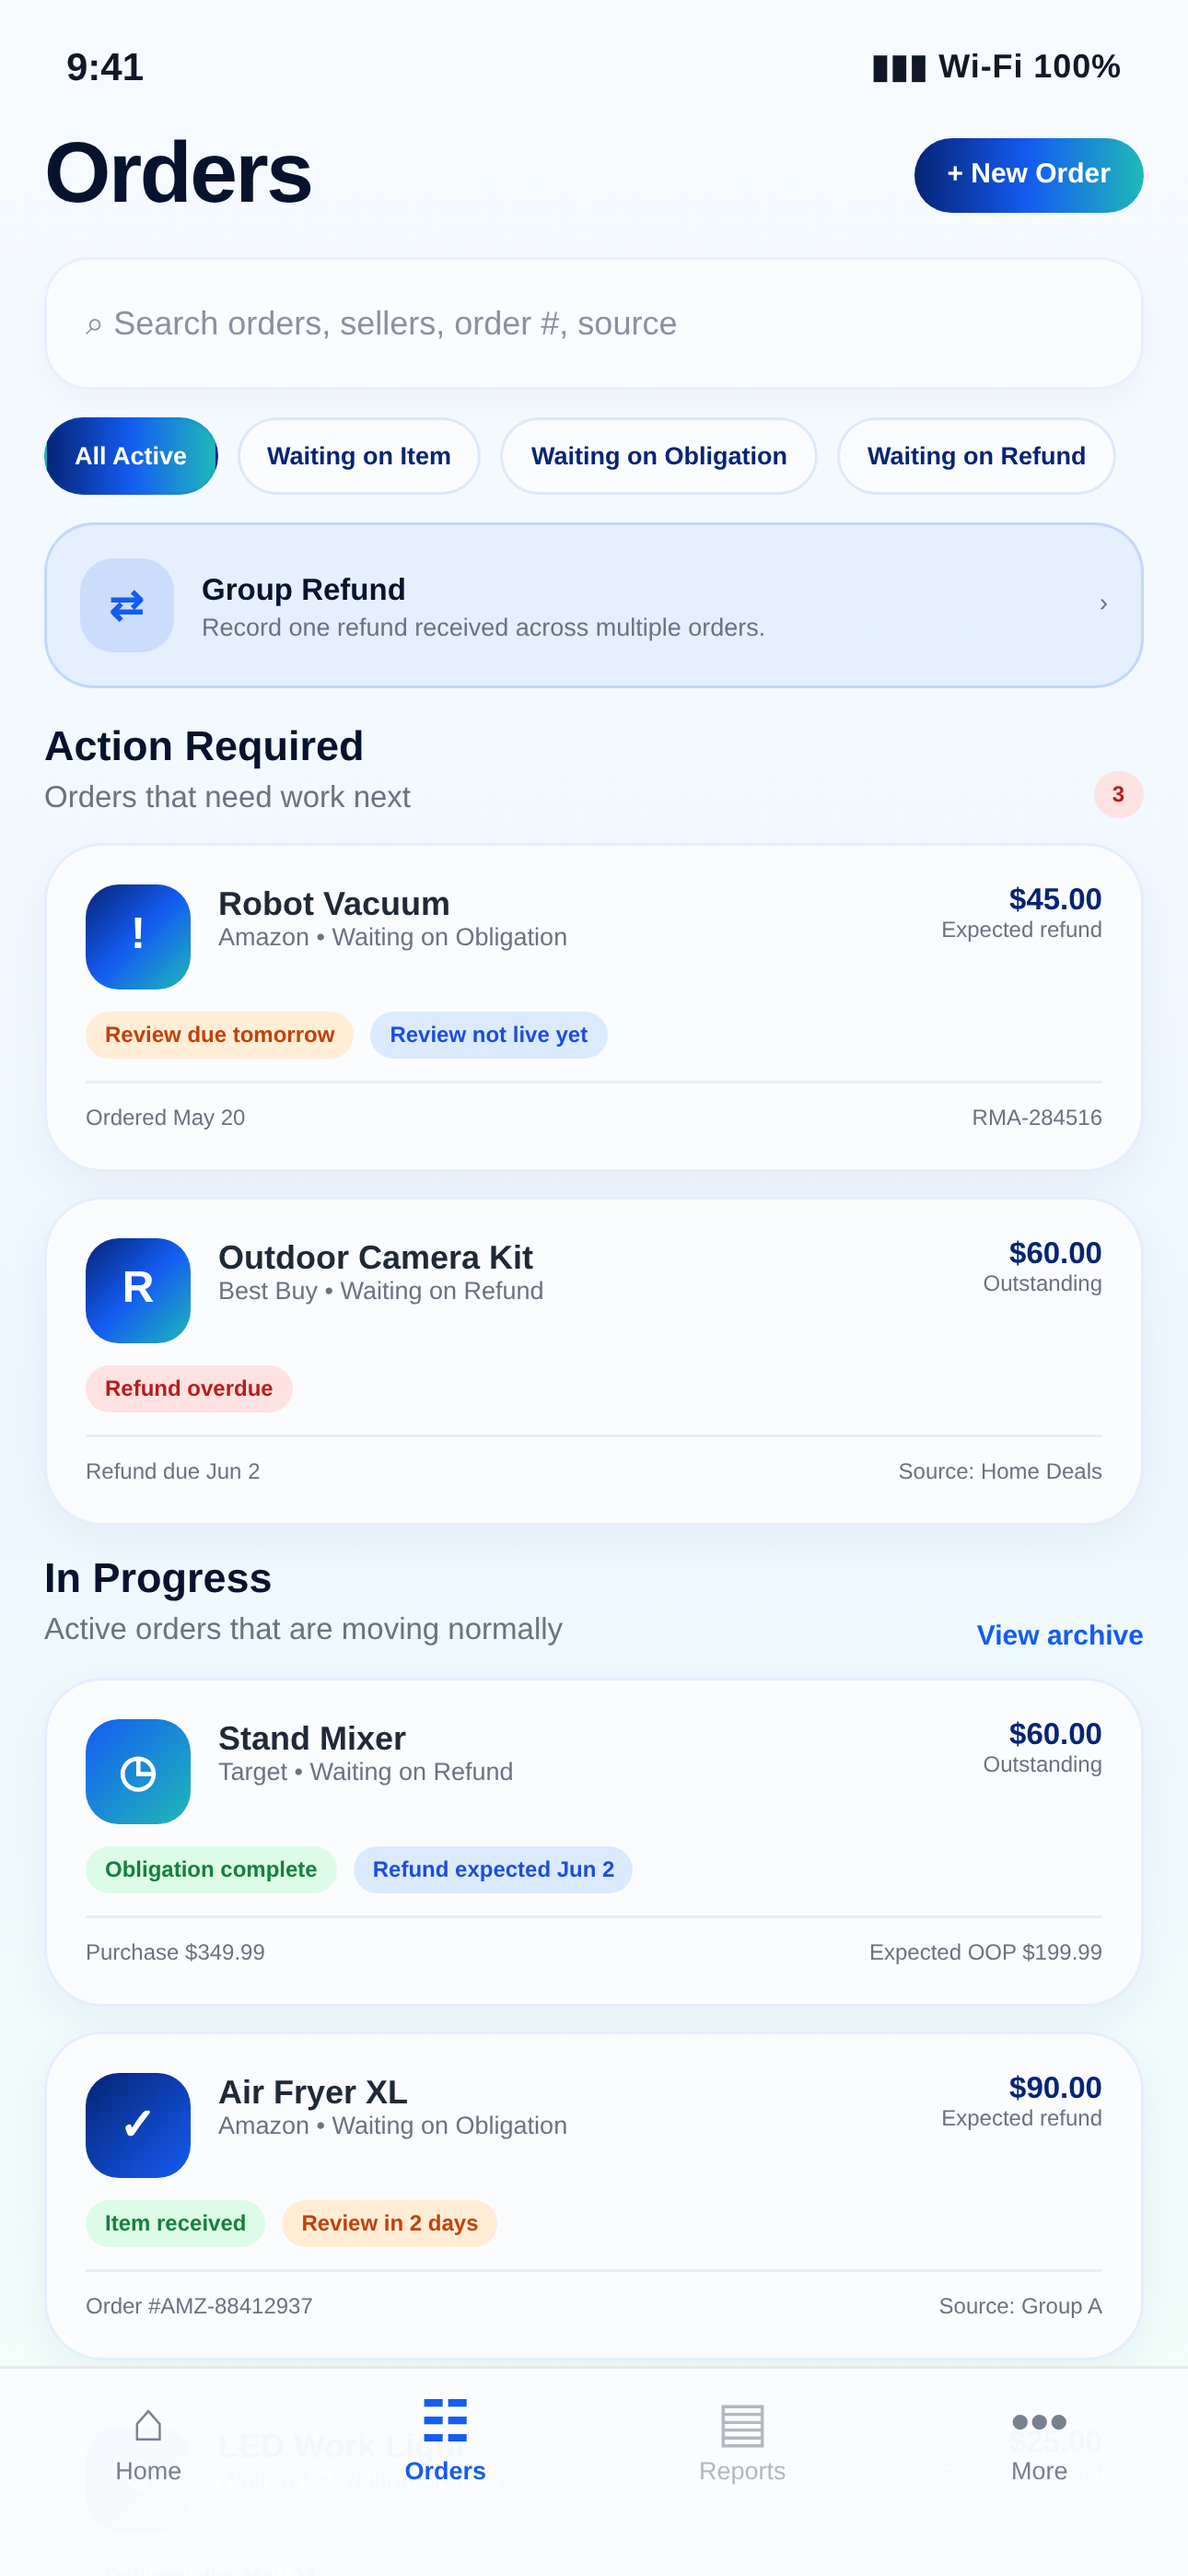
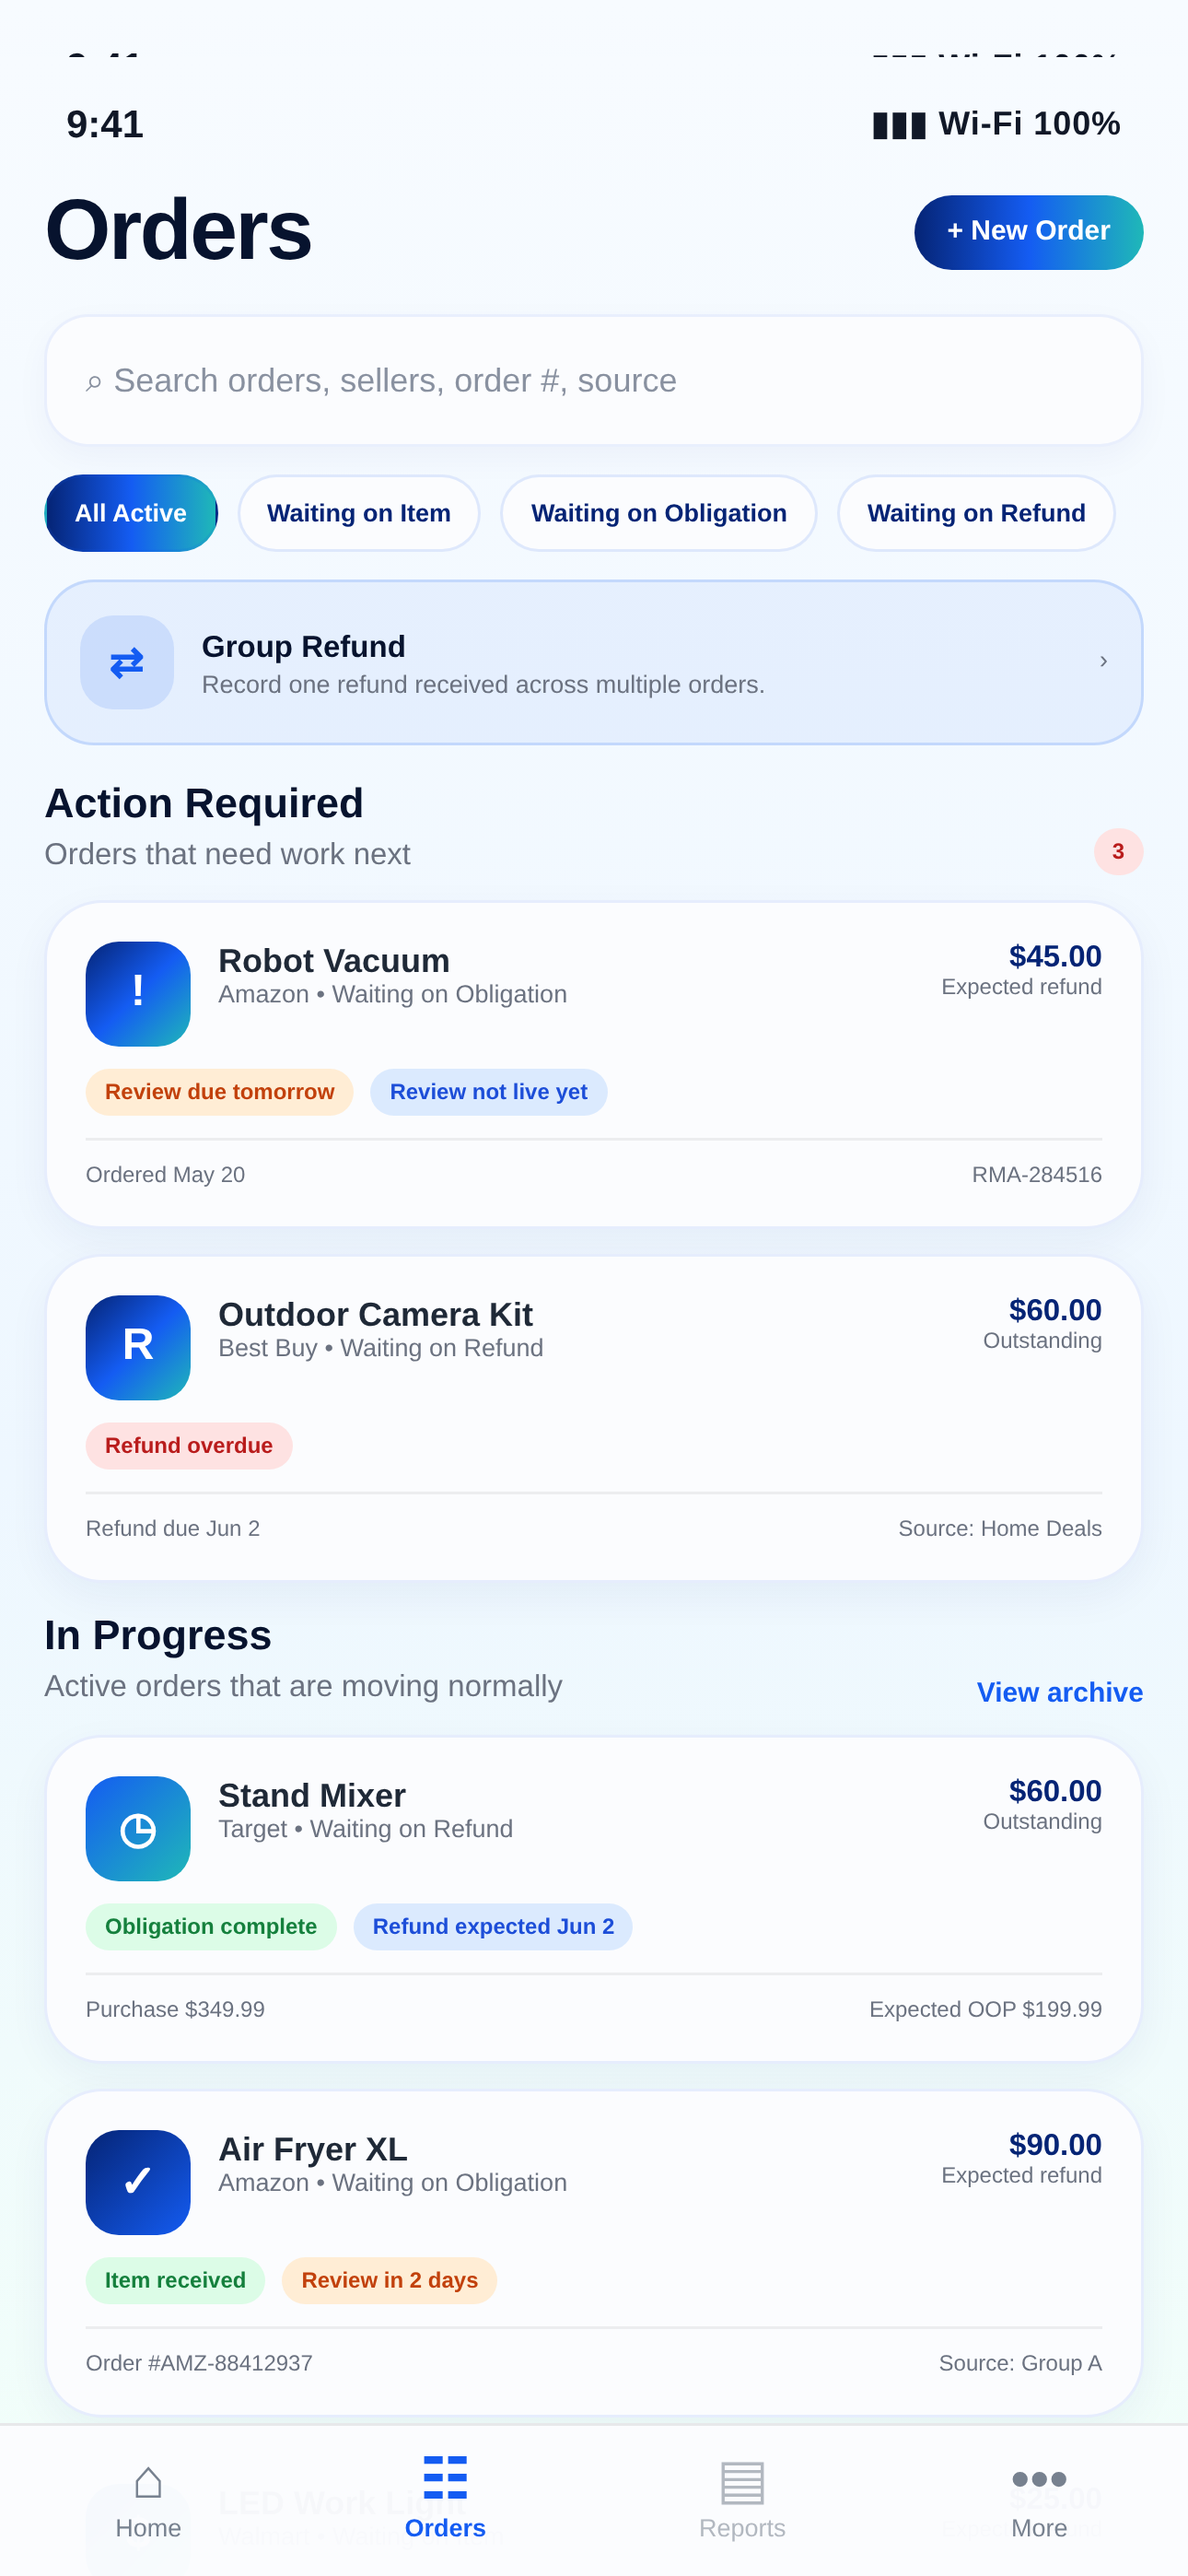
Add files via upload

diff --git a/styles.css b/styles.css
@@ -575,70 +575,13 @@ nav .rebatify-plus-text{
 }
 
 
-/* -------------------------------------------------------
-   Dynamic Island clearance fix
-   Keep the island entirely inside the phone frame so it
-   never covers the simulated app UI or status-bar content.
-   ------------------------------------------------------- */
-
-.phone-frame,
-.phone-shot{
-  padding:32px 8px 8px !important;
-}
-
-/* Island sits in the reserved top frame area, above the app image. */
+/* Subtle Dynamic Island clearance:
+   preserve the original iPhone frame and simply keep the island slightly higher. */
 .phone-frame::before,
 .phone-shot::before{
-  top:6px !important;
-  height:21px !important;
-  width:30% !important;
-  min-width:78px !important;
-  max-width:104px !important;
-}
-
-/* Camera glint stays inside the island. */
-.phone-frame::after,
-.phone-shot::after{
   top:12px !important;
 }
-
-/* Keep the app screenshot fully visible below the reserved island area. */
-.phone-frame img,
-.phone-shot img{
-  position:relative;
-  z-index:1;
-  display:block;
-  width:100%;
-  height:auto;
-}
-
-/* Slightly increase shell rounding to preserve the modern iPhone look. */
-.phone-frame,
-.phone-shot{
-  border-radius:50px !important;
-}
-.phone-frame img,
-.phone-shot img{
-  border-radius:38px !important;
-}
-
-@media(max-width:760px){
-  .phone-frame,
-  .phone-shot{
-    padding:29px 7px 7px !important;
-    border-radius:45px !important;
-  }
-  .phone-frame::before,
-  .phone-shot::before{
-    top:5px !important;
-    height:20px !important;
-  }
-  .phone-frame::after,
-  .phone-shot::after{
-    top:11px !important;
-  }
-  .phone-frame img,
-  .phone-shot img{
-    border-radius:34px !important;
-  }
+.phone-frame::after,
+.phone-shot::after{
+  top:18px !important;
 }
